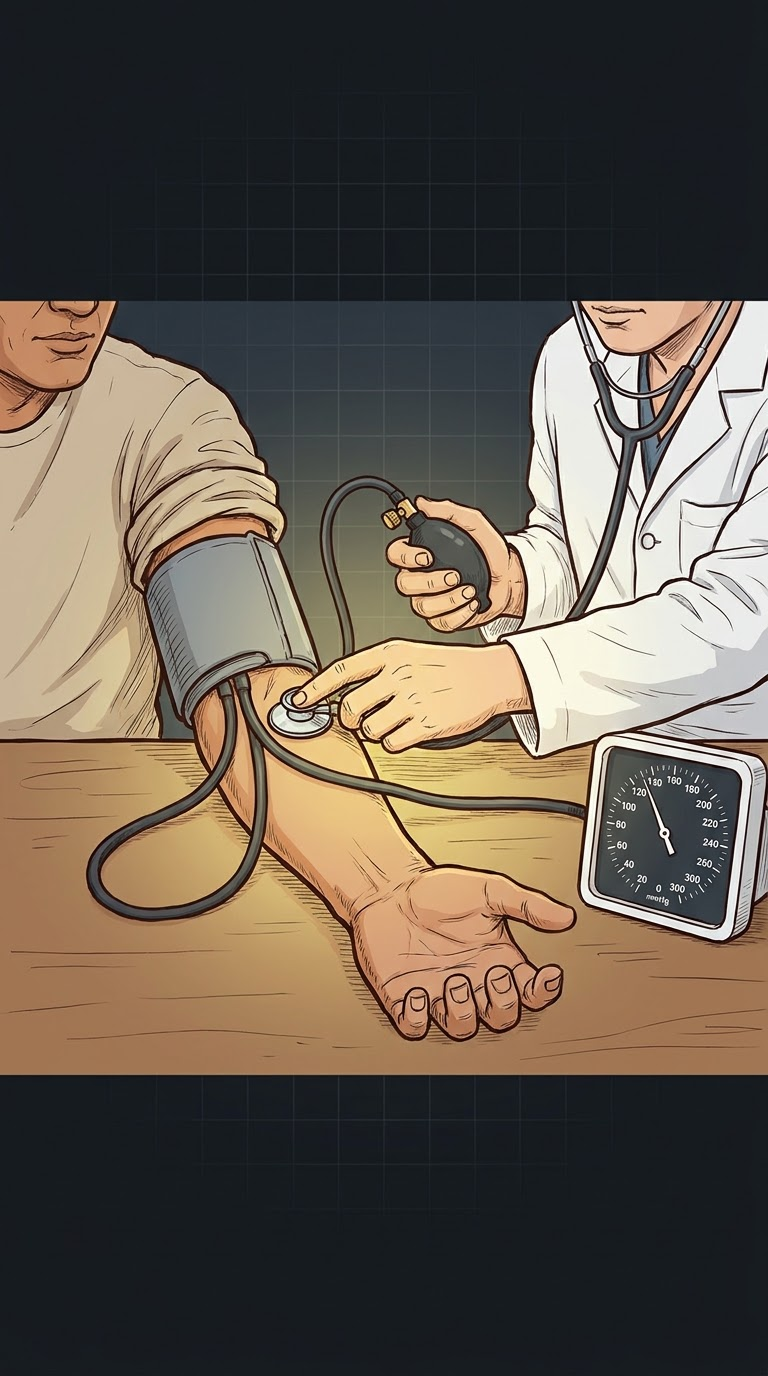
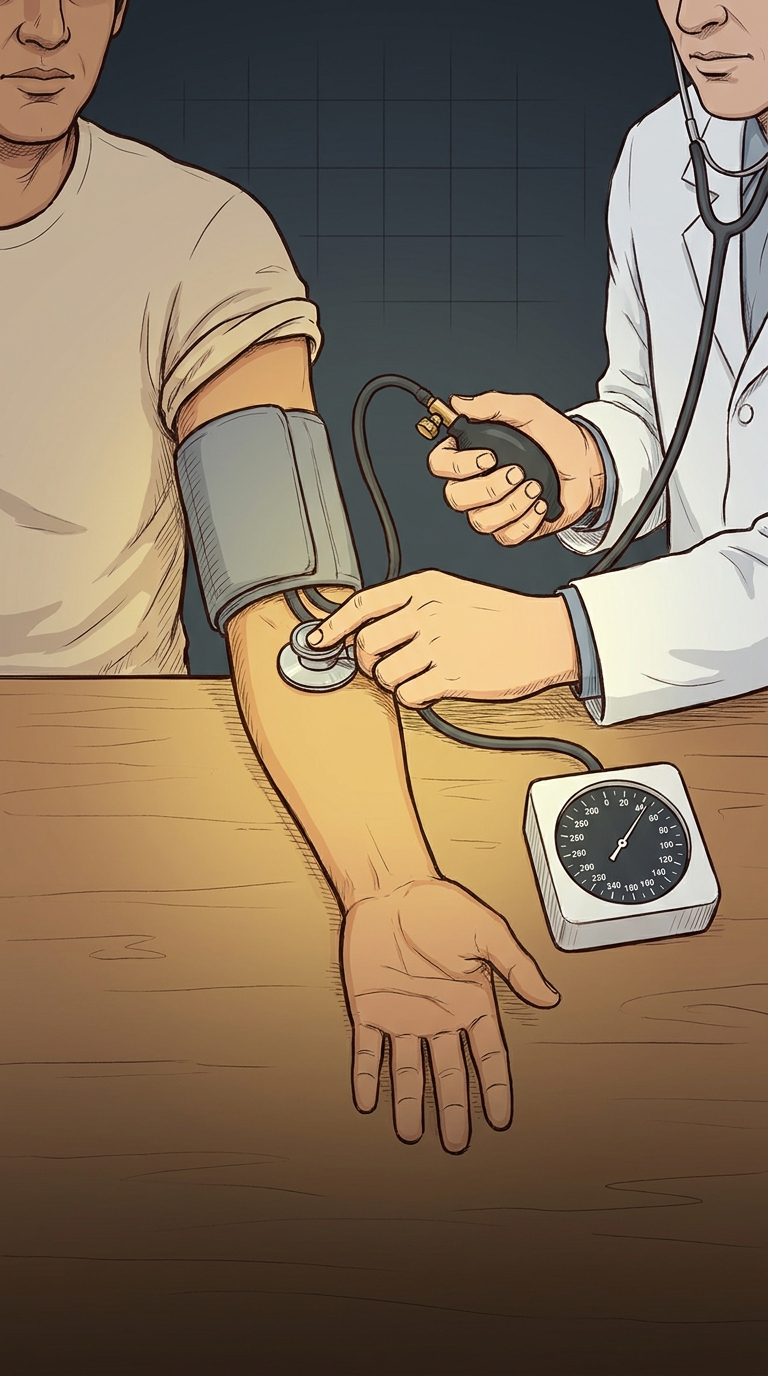
blood-pressure: Gemini cover on the full-bleed art, real dial face over Gemini's
Claude-Session: https://claude.ai/code/session_01E23g9W6FbQC2MvznPRu1EM

diff --git a/brand/eh-elhekaya/cover-bp-gemini-tiktok.html b/brand/eh-elhekaya/cover-bp-gemini-tiktok.html
@@ -7,7 +7,7 @@
      Text in our fonts and colours; everything that matters stays inside y 120–840 and away from the right-hand buttons. */
   body { margin: 0; background: #000; }
   .cover { position: relative; width: 540px; height: 960px; overflow: hidden; background: #1b1d22; }
-  .art { position: absolute; inset: 0; width: 540px; height: 960px; object-fit: cover; }
+  .art { position: absolute; left: 0; top: -60px; width: 540px; height: 967.5px; }   /* raised 60 px so the hand sits above the caption */
   #fix { position: absolute; inset: 0; width: 540px; height: 960px; }
   .fade { position: absolute; left: 0; right: 0; }
   .t { position: absolute; left: 24px; right: 64px; margin: 0; text-align: center; text-shadow: 0 3px 10px rgba(0,0,0,.7); }
@@ -21,15 +21,17 @@
   <p class="t" style="top:126px;font:600 15px 'Noto Sans Arabic';color:#d9d4c8">إيه الحكاية؟</p>
   <p class="t" style="top:146px;font:900 38px/1.2 'Noto Sans Arabic';color:#fff">ضغطك بيتقاس إزاي؟</p>
   <p class="t" style="top:196px;font:800 24px/1.3 'Noto Sans Arabic';color:#f2c230">من غير ما يشوف نقطة دم!</p>
-  <div class="tag" style="left:420px;top:662px">120/80</div>
+  <div class="tag" style="left:392px;top:596px">120/80</div>
   <p class="t" style="top:758px;font:800 31px/1.35 'Noto Sans Arabic';color:#fff">الطبيعي أقل من <span style="color:#f2c230">120/80</span><br><span style="font-size:22px;color:#d9d4c8">وإمتى تطلب الإسعاف فورًا</span></p>
 </div>
 <script src="../../videos/blood-pressure/timing.js"></script>
 <script src="../../videos/_templates/people/person.js"></script>
 <script src="../../videos/blood-pressure/sketch/scenes.js"></script>
 <script>
-  // Gemini's dial sits at about (472, 585) here: cover its face, then draw the real one (0 at the top, clockwise to 300)
-  document.getElementById("fix").innerHTML = '<rect x="421" y="524" width="103" height="122" rx="9" fill="#2f3438"/>' +
-    '<clipPath id="dialC"><circle cx="472" cy="585" r="48"/></clipPath><g clip-path="url(#dialC)">' + gauge(472, 585, 48, 120) + '</g>';
+  // Gemini's dial is an ellipse centred about (437, 533) here (rx 46.8, ry 43.2, the box seen a little from above):
+  // draw the real face in its place, squashed the same way (0 at the top, clockwise to 300, needle on 120)
+  document.getElementById("fix").innerHTML = '<g transform="translate(437 533) scale(1 .923) translate(-437 -533)">' +
+    '<clipPath id="dialC"><circle cx="437" cy="533" r="47"/></clipPath><circle cx="437" cy="533" r="47" fill="#2f3438"/><g clip-path="url(#dialC)">' + gauge(437, 533, 47, 120) + '</g>' +
+    '<circle cx="437" cy="533" r="47" fill="none" stroke="#2a2016" stroke-width="2"/></g>';
 </script>
 </body></html>
